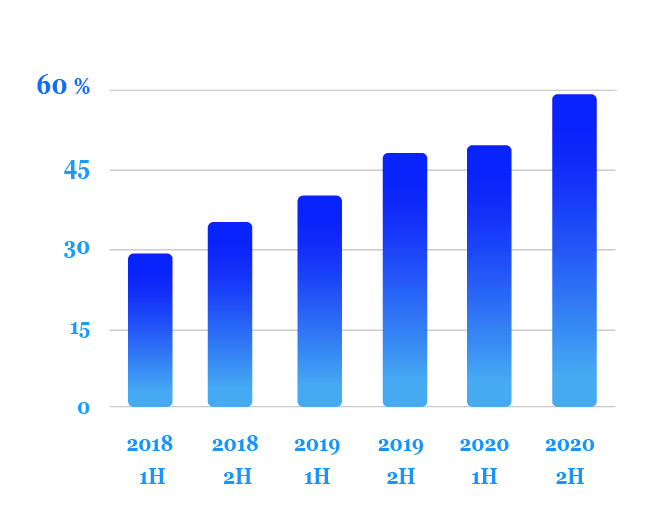
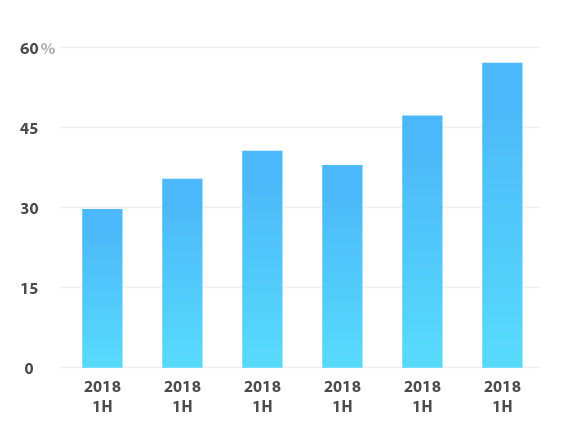
added new chart graphics
added new chart graphics

diff --git a/public/web/theme/index.html b/public/web/theme/index.html
@@ -451,7 +451,7 @@
             <img class="shadow-2 opacity-80" src="assets/img/header-video.jpg" alt="..." data-aos="slide-up" data-aos-delay="600">
           </div>
           !-->
-          <img class="shadow-3" src="assets/img/monthlyChart.png" alt="..."  data-aos-duration="1500">
+          <img class="shadow-3" src="assets/img/estimateBonusChart.png" alt="..."  data-aos-duration="1500">
         </div>
 
 
